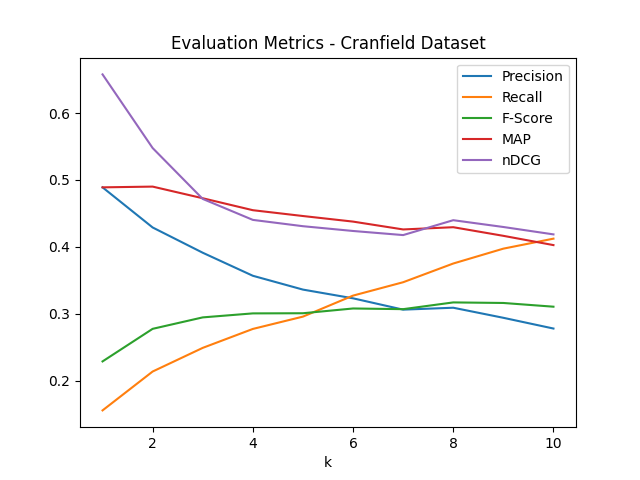
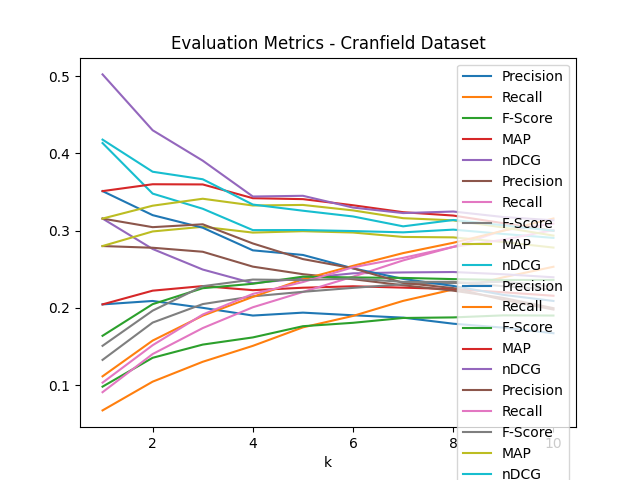
bigram+LSA

diff --git a/informationRetrieval.py b/informationRetrieval.py
@@ -5,8 +5,9 @@ from itertools import chain
 
 class InformationRetrieval():
 
-	def __init__(self):
+	def __init__(self, k):
 		self.index = None
+		self.k = k
 
 	def buildIndex(self, docs, docIDs):
 		"""
@@ -28,38 +29,96 @@ class InformationRetrieval():
 		index = None
 
 		#Fill in code here
-		words = list(set(list(chain.from_iterable(list(chain.from_iterable(docs))))))
+		bigrams = []
+		for doc in docs:
+			bigramInDoc = list(nltk.bigrams(list(chain.from_iterable(doc))))
+			bigrams.extend(bigramInDoc)
+		bigrams = list(set(bigrams))
 
 		documentIndex = {}
 		invertedIndex = {}
 		docsRepr = {}
-		for word in words:
-			invertedIndex[word] = {"docFreq":0, "containingDocs":[]}
+
+		#Initialise inverted index for bigrams: number of documents the bigram occurs in 
+		#and list of docIDs the bigram occurs in
+		for bigr in bigrams:
+			invertedIndex[bigr] = {"docFreq":0, "containingDocs":[]}
+
+		#Populate the inverted index for words intialised above
+		#Go over each document and incement the docCounts for each word found in that document
+		#Also attack the corresponding docIDs to the list associated with those words
 		for i in range(len(docs)):
-			documentIndex[docIDs[i]] = list(chain.from_iterable(docs[i]))
-			for word in list(set(documentIndex[docIDs[i]])):
-				invertedIndex[word]["docFreq"] += 1
-				invertedIndex[word]["containingDocs"].append(docIDs[i])
+			#Flatten the document which is stored as a list of list of words in each sentence 
+			#and store the bigrams 
+			documentIndex[docIDs[i]] = list(nltk.bigrams(list(chain.from_iterable(docs[i]))))
+			for bigr in list(set(documentIndex[docIDs[i]])):
+				invertedIndex[bigr]["docFreq"] += 1
+				invertedIndex[bigr]["containingDocs"].append(docIDs[i])
 		
-		#Better to precompute doc repr because time saving >>> storage 
+
+		# DFs = []
+		# for bigr in list(invertedIndex.keys()):
+		# 	DFs.append(invertedIndex[bigr]["docFreq"])
+		# # DFs = np.sort(list(set(DFs)))
+		# # print(DFs[::-1])
+		# print(np.mean(DFs))
+		# exit(0)
+
+		#Remove bigrams which appear in too less documents
+		toRem = []
+		for bigr in list(invertedIndex.keys()):
+			if invertedIndex[bigr]["docFreq"] < 2:
+				if random.uniform(0,1) <= 0.95:
+					toRem.append(bigr) 
+
+		for tR in toRem:
+			del invertedIndex[tR]
+			bigrams.remove(tR)
+
+		print(len(list(invertedIndex.keys())))
+		# exit(0)
+		
+		#Better to precompute document representation because time saving >>> storage 
 		for i in range(len(docs)):
-			docRepr = [0]*len(words)
-			# normalisationFactor = 0
-			for j in range(len(words)):
-				if words[j] in list(set(documentIndex[docIDs[i]])):
-					termFreq = documentIndex[docIDs[i]].count(words[j])/len(documentIndex[docIDs[i]])
-					docFreq = np.log(len(docs)/invertedIndex[words[j]]["docFreq"])
-					docRepr[j] = termFreq*docFreq
-					# normalisationFactor += ((termFreq)**2)*((docFreq)**2)
-			# docsRepr[docIDs[i]] = np.array(docRepr)/normalisationFactor 
-			if np.linalg.norm(docRepr) != 0:
-				docsRepr[docIDs[i]] = docRepr/np.linalg.norm(docRepr)
+			docRepr = [0]*len(bigrams)
+			for bigr in list(set(documentIndex[docIDs[i]])):
+				if bigr not in bigrams:
+					continue
+				termFreq = documentIndex[docIDs[i]].count(bigr)/len(documentIndex[docIDs[i]])
+				docFreq = np.log(len(docs)/invertedIndex[bigr]["docFreq"])
+				docRepr[bigrams.index(bigr)] = termFreq*docFreq 
+			docsRepr[docIDs[i]] = docRepr
+
+
+		docsTerms = list(docsRepr.values())
+		termsDocs = np.transpose(docsTerms).tolist()
+		#T - term matrix in terms of latent concepts
+		#S - singular values associated with each latent concept
+		#Dh - transpose of the document matrix in terms of latent concepts
+		T, S, Dh = np.linalg.svd(termsDocs)
+		
+		#k-rank approximation
+		t = T[:, 0:self.k].copy()
+		s = S[0:self.k].copy()
+		dh = Dh[0:self.k,:].copy()
+
+
+		#Normalise document representations to nullify effect of lengths of documents
+		for j in range(len(dh[0])):
+			if np.linalg.norm(dh[:,j]) != 0:
+				dh[:,j] /= np.linalg.norm(dh[:,j])
+		
 
 		index = {
-			"words": words,
+			"bigrams": bigrams,
 			"documentIndex": documentIndex,
 			"invertedIndex": invertedIndex,
 			"docsRepr": docsRepr,
+			"termsDocs": termsDocs,
+			"t": t,
+			"s": s,
+			"dh": dh,
+			"docIDs": docIDs,
 		}
 
 		self.index = index
@@ -84,38 +143,64 @@ class InformationRetrieval():
 		"""
 
 		doc_IDs_ordered = []
+	
 
 		#Fill in code here
 		for query in queries:
-			wordsInQuery = list(chain.from_iterable(query))
+			bigramsInQuery = list(nltk.bigrams(list(chain.from_iterable(query))))
 			queryRepr = [0]*len(list(self.index["invertedIndex"].keys()))
-			docsRelToQuery = []
-			for word in list(set(wordsInQuery)):
-				if word not in list(self.index["invertedIndex"].keys()):
-				# if word not in self.index["words"]:
+			for bigram in list(set(bigramsInQuery)):
+				if bigram not in list(self.index["invertedIndex"].keys()):
 					continue
-				docsRelToQuery.extend(self.index["invertedIndex"][word]["containingDocs"])
-				termFreq = (wordsInQuery.count(word))/(len(wordsInQuery))
-				docFreq = np.log(len(list(self.index["documentIndex"].keys()))/self.index["invertedIndex"][word]["docFreq"])
-				queryRepr[list(self.index["invertedIndex"].keys()).index(word)] = termFreq*docFreq
-			queryRepr /= np.linalg.norm(queryRepr)
-			docsRelToQuery = list(set(docsRelToQuery))
-			docsRelToQueryRepr = []
-			for (ind, doc) in enumerate(docsRelToQuery):
-				# docRepr = [0]*len(self.index["invertedIndex"])
-				# for (wIndex, word) in enumerate(self.index["documentIndex"][doc]):
-				# 	termFreq = self.index["documentIndex"][doc].count(word)/len(self.index["documentIndex"][doc])
-				# 	docFreq = np.log(len(list(self.index["documentIndex"].keys()))/self.index["invertedIndex"][word]["docFreq"])
-				# 	docRepr[ind] = termFreq*docFreq
-				# docRepr /= np.linalg.norm(docRepr)
-				docRepr = self.index["docsRepr"][doc]
-				docsRelToQueryRepr.append(docRepr)
+				termFreq = (bigramsInQuery.count(bigram))/(len(bigramsInQuery))
+				docFreq = np.log(len(list(self.index["documentIndex"].keys()))/self.index["invertedIndex"][bigram]["docFreq"])
+				queryRepr[list(self.index["invertedIndex"].keys()).index(bigram)] = termFreq*docFreq
 
-			# print(f"{queries.index(query)}/{len(queries)}")
-			cosSims = np.dot(queryRepr, np.transpose(docsRelToQueryRepr))
-			doc_IDs_ordered.append([docsRelToQuery[idPos] for idPos in np.argsort(cosSims)[::-1]])
-			# doc_IDs_ordered.append([list(self.index["docsRepr"].keys())[rank] for rank in np.argsort(cosSims)[::-1]])
-	
+			pseudoDoc = np.dot(queryRepr, np.dot(self.index["t"], np.linalg.inv(np.diag(self.index["s"]))))
+			if np.linalg.norm(pseudoDoc) != 0:
+				pseudoDoc /= np.linalg.norm(pseudoDoc)
+
+			cosSims = []
+			cosSimsIndex = []
+			for d in range(len(self.index["dh"].T)):
+				cosSim = np.dot(self.index["dh"].T[d],pseudoDoc)
+				cosSims.append(cosSim)
+				cosSimsIndex.append(self.index["docIDs"][d])
+			doc_IDs_ordered.append([id for _, id in sorted(zip(cosSims, cosSimsIndex),reverse=True)])	
+
+			# cosSims = np.dot(self.index["dh"].T,pseudoDoc)
+			# cosSimsSort = np.argsort(cosSims)
+
+			# cur_doc_IDs_ordered = [0]*len(self.index["docIDs"])
+			# for i in range(len(cosSimsSort)):
+			# 	cur_doc_IDs_ordered[cosSimsSort[i]] = self.index["docIDs"][i]
+			# doc_IDs_ordered.append(cur_doc_IDs_ordered)
+
+			# print(cosSims)
+			# cosSims = np.argpartition(cosSims, -len(cosSims))[-len(cosSims):]
+			# print(cosSims)
+			# exit(0)
+			# # doc_IDs_ordered.append(cosSims)
+			# # doc_IDs_ordered.append(np.array(self.index["docIDs"])[cosSims])
+			# # print("1)")
+			# # print(doc_IDs_ordered)
+			# # doc_IDs_ordered = []
+
+			# docsRelToQuery = list(set(docsRelToQuery))
+			# docsRelToQueryRepr = []
+			# for (ind, doc) in enumerate(docsRelToQuery):
+			# 	# docRepr = [0]*len(self.index["invertedIndex"])
+			# 	# for (wIndex, word) in enumerate(self.index["documentIndex"][doc]):
+			# 	# 	termFreq = self.index["documentIndex"][doc].count(word)/len(self.index["documentIndex"][doc])
+			# 	# 	docFreq = np.log(len(list(self.index["documentIndex"].keys()))/self.index["invertedIndex"][word]["docFreq"])
+			# 	# 	docRepr[ind] = termFreq*docFreq
+			# 	# docRepr /= np.linalg.norm(docRepr)
+			# 	docRepr = self.index["docsRepr"][doc]
+			# 	docsRelToQueryRepr.append(docRepr)
+
+			# cosSims = np.dot(queryRepr, np.transpose(docsRelToQueryRepr))
+			# doc_IDs_ordered.append([docsRelToQuery[idPos] for idPos in np.argsort(cosSims)[::-1]])
+			## doc_IDs_ordered.append([list(self.index["docsRepr"].keys())[rank] for rank in np.argsort(cosSims)[::-1]])
 		return doc_IDs_ordered
 
 

diff --git a/main.py b/main.py
@@ -24,7 +24,7 @@ else:
 
 class SearchEngine:
 
-	def __init__(self, args):
+	def __init__(self, args, k):
 		self.args = args
 
 		self.tokenizer = Tokenization()
@@ -32,7 +32,7 @@ class SearchEngine:
 		self.inflectionReducer = InflectionReduction()
 		self.stopwordRemover = StopwordRemoval()
 
-		self.informationRetriever = InformationRetrieval()
+		self.informationRetriever = InformationRetrieval(k)
 		self.evaluator = Evaluation()
 
 
@@ -252,10 +252,14 @@ if __name__ == "__main__":
 	args = parser.parse_args()
 
 	# Create an instance of the Search Engine
-	searchEngine = SearchEngine(args)
+	# Second parameter stands for the value of k in LSA
+	for k in [100, 200,400,600,800,1000,1200,1400]:
+		print(f"k = {k}")
+		searchEngine = SearchEngine(args,k)
 
-	# Either handle query from user or evaluate on the complete dataset 
-	if args.custom:
-		searchEngine.handleCustomQuery()
-	else:
-		searchEngine.evaluateDataset()
+		# Either handle query from user or evaluate on the complete dataset 
+		if args.custom:
+			searchEngine.handleCustomQuery()
+		else:
+			searchEngine.evaluateDataset()
+		print("**************")

diff --git a/util.py b/util.py
@@ -4,4 +4,6 @@ nltk.download("stopwords")
 
 import numpy as np
 
+import random
+
 # Add any utility functions here
